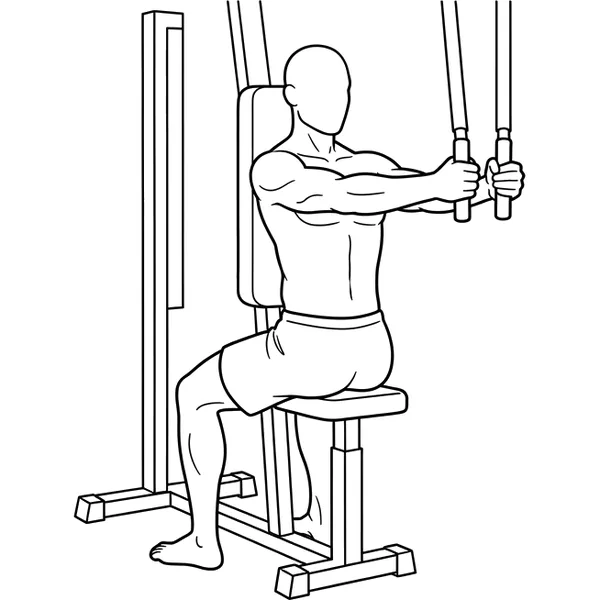
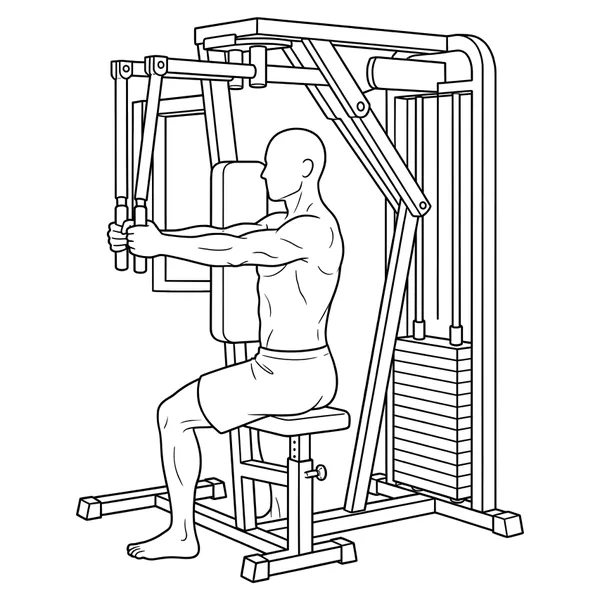
0.60.13: los doce dibujos que quedaban de la cuarta revision (remos, hack, superman, pajaros en contractora, gemelos en multipower...)

Changed region(s): [[0.12, 0.0, 0.9, 1.0]]

diff --git a/web/sw.js b/web/sw.js
@@ -7,12 +7,12 @@
 // Solo se ocupa del CÓDIGO de la app. Los datos del usuario nunca pasan por
 // aquí: viven en el dispositivo (IndexedDB) y en su Google Drive.
 
-const VERSION = '0.60.12';
+const VERSION = '0.60.13';
 const CACHE = `entreno-${VERSION}`;
 // Las imágenes van en un almacén aparte que NO se borra al actualizar la app:
 // así se ven sin conexión aunque haya salido una versión nueva.
 // Si cambian las imágenes, se sube el número y los móviles bajan las nuevas.
-const CACHE_IMAGENES = 'entreno-imagenes-22';  // el mismo nombre en app.js (guardarImagenesParaSinConexion)
+const CACHE_IMAGENES = 'entreno-imagenes-23';  // el mismo nombre en app.js (guardarImagenesParaSinConexion)
 
 const ARCHIVOS = [
   './',

diff --git a/web/js/app.js b/web/js/app.js
@@ -236,7 +236,7 @@ async function guardarImagenesParaSinConexion() {
     const capas = Object.entries(MUSCULOS).flatMap(([clave, m]) => m.vistas.map((v) => archivoCapa(clave, v)));
     const cuerpo = ['imagenes/musculos/cuerpo-delante.svg', 'imagenes/musculos/cuerpo-detras.svg'];
     // El mismo nombre que CACHE_IMAGENES en sw.js: si no, el service worker lo borra.
-    const cache = await caches.open('entreno-imagenes-22');
+    const cache = await caches.open('entreno-imagenes-23');
     for (const ruta of [...cuerpo, ...capas, ...mios]) {
       if (!(await cache.match(ruta, { ignoreSearch: true }))) {
         const r = await fetch(ruta).catch(() => null);

diff --git a/web/js/version.js b/web/js/version.js
@@ -1,3 +1,3 @@
 // Versión del código de la app. Se sube en cada publicación y debe coincidir
 // con VERSION en sw.js, que es lo que hace que los móviles se actualicen.
-export const VERSION_APP = '0.60.12';
+export const VERSION_APP = '0.60.13';

diff --git a/herramientas/reencajar.py b/herramientas/reencajar.py
@@ -45,6 +45,8 @@ REENCAJAR = {
     "hip-thrust": {"ia": True, "zona": (0.0, 0.45, 0.35, 1.0)},               # el banco
     "face-pull": {"ia": True, "zona": (0.75, 0.0, 1.0, 1.0), "fijo_desde": 0.55},  # la columna; piernas quietas
     "elevacion-de-gemelos-completo": {"ia": True, "zona": (0.0, 0.8, 1.0, 1.0)},  # el escalón
+    "puente-de-gluteo": {"ia": True, "zona": (0.0, 0.0, 0.35, 1.0)},          # la cabeza y los hombros en el suelo
+    "encogimientos-de-trapecio": {"ia": True, "zona": (0.0, 0.9, 1.0, 1.0), "fijo_desde": 0.6},  # pies; piernas quietas
     "carrera": {"ia": True, "zona": (0.25, 0.0, 0.75, 0.4)},                  # cabeza y hombros (corre en el sitio)
     "remo-de-cardio": {"ia": True, "zona": (0.0, 0.0, 0.3, 1.0)},             # el volante y las patas de delante
 }

diff --git a/imagenes-ia/cola.md b/imagenes-ia/cola.md
@@ -69,7 +69,7 @@ supinas, mountain climbers, gemelos (escalón), gemelos sentado, CARs, máquina 
 (polea nuevo + variante mancuerna), curl en polea, sentadilla (mano), caras, pectoral en el marco, gemelo y
 sóleo, elevador de la escápula, sofá (recorte), polea lateral, tríceps en máquina, fondos asistidos (se inclina,
 no baja), elevaciones laterales y press a una mano (completados), remo al mentón (grueso).
-Quedan (Gemini se reabre a las 5:36): press militar de pie y sentado, puente de glúteo (y comparar los tres),
-remo en máquina, remo en polea, crunch inverso y encogimientos (músculo), sentadilla hack, superman, pájaros en
-contractora (nuevo), gemelos en multipower, fondos negativos (solo piernas), patada de glúteo; y los 72 de la
-cola «más músculo» (sobre todo yoga). Animar cardio: no sale con ninguna IA.
+Hecho el 23-10 por la mañana (0.60.13): press militar de pie, puente de glúteo, remos en máquina y en polea,
+crunch inverso, encogimientos, hack, superman, pájaros en contractora, gemelos en multipower, fondos negativos y
+patada de glúteo. Quedan: press militar sentado (completar piernas y teletransporte), remo en polea al pecho
+(teletransporte del de Everkinetic) y los 72 de la cola «más músculo» (sobre todo yoga). Animar cardio: no sale con ninguna IA.

diff --git a/CLAUDE.md b/CLAUDE.md
@@ -1163,3 +1163,9 @@ fase), tras probar la A.
   input de archivo del menú «+» (el portapapeles de Windows estaba bloqueado) y la descarga con un clic real en
   «Descargar imagen a tamaño completo» (las descargas por código las bloquea Chrome tras unas pocas).
   Almacén `entreno-imagenes-22`.
+- 0.60.13 (23-10-2026, mañana): los 12 arreglos que quedaban de su cuarta revisión (press militar, puente de
+  glúteo, remos en máquina y en polea, crunch inverso, encogimientos, hack, superman, gemelos en multipower,
+  fondos negativos solo con piernas, patada de glúteo, pájaros en contractora nuevo con `usar: ia`). Truco: hacer
+  los dos pasos en la MISMA conversación de Gemini (primero «más músculo» o el aparato, luego «sobre esta última
+  imagen, cambia solo la postura»): salen del mismo lienzo y el hombre es el mismo. Gemini cambia poco las
+  posturas en máquinas (hack, puente, gemelos): recorrido corto. Almacén `entreno-imagenes-23`.
